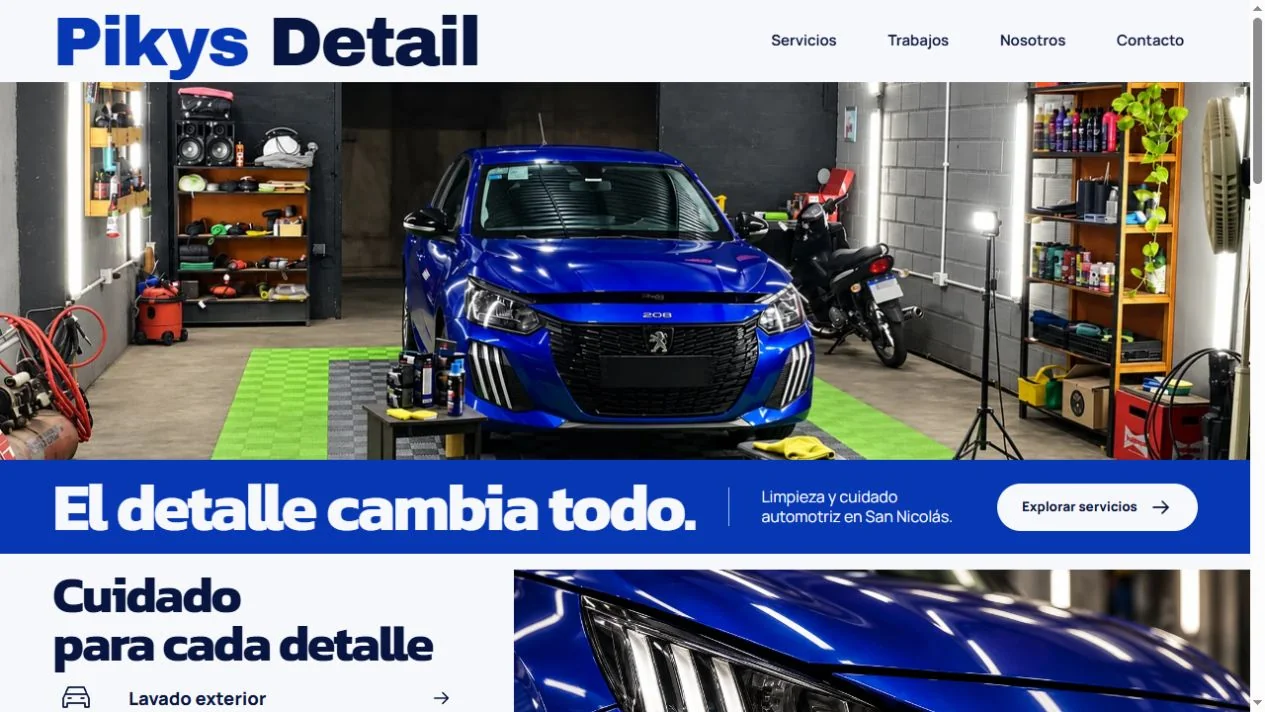
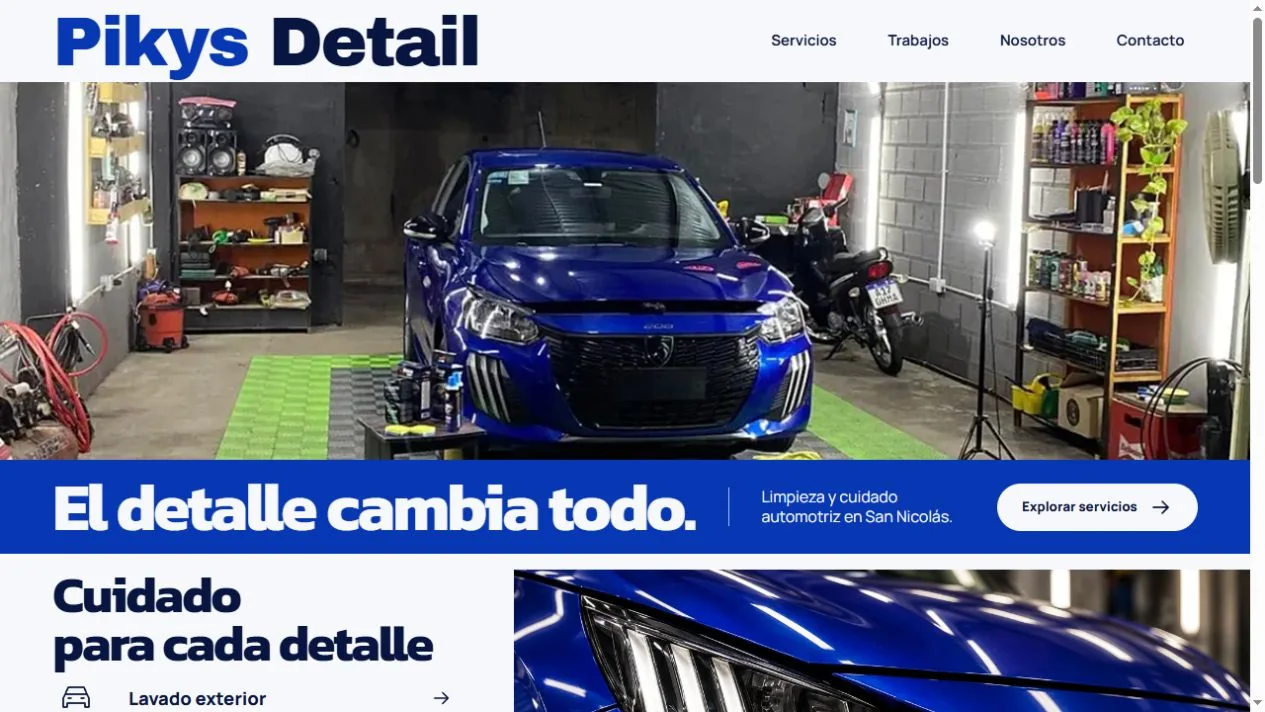
fix: restore original workshop photo in landing hero

Changed region(s): [[0.0, 0.0927, 1.0, 0.6489]]

diff --git a/index.html b/index.html
@@ -12,9 +12,9 @@
     <meta property="og:site_name" content="Pikys Detail">
     <meta property="og:title" content="Pikys Detail — El detalle cambia todo">
     <meta property="og:description" content="Diseño frontend de portfolio para un emprendimiento familiar de cuidado automotriz en San Nicolás. Contacto de demostración.">
-    <meta property="og:image:alt" content="Vista ilustrativa del automóvil azul en el taller de Pikys Detail">
+    <meta property="og:image:alt" content="Fotografía original del automóvil azul en el taller de Pikys Detail">
     <meta property="og:image:width" content="1200">
-    <meta property="og:image:height" content="630">
+    <meta property="og:image:height" content="500">
     <meta name="twitter:card" content="summary_large_image">
     <meta name="twitter:title" content="Pikys Detail — El detalle cambia todo">
     <meta name="twitter:description" content="Landing de portfolio de cuidado automotriz. Contacto de demostración.">
@@ -35,8 +35,8 @@
     <main id="contenido">
       <section class="hero" id="inicio" aria-labelledby="hero-title">
         <picture>
-          <source media="(max-width: 600px)" srcset="src/assets/images/workshop-blue-mobile-480.webp 480w, src/assets/images/workshop-blue-mobile-800.webp 800w, src/assets/images/workshop-blue-mobile-1131.webp 1131w" sizes="100vw">
-          <img class="hero-photo" src="src/assets/images/workshop-blue-2172.webp" srcset="src/assets/images/workshop-blue-768.webp 768w, src/assets/images/workshop-blue-1280.webp 1280w, src/assets/images/workshop-blue-2172.webp 2172w" sizes="(max-width: 600px) 192vw, (max-width: 960px) 117vw, 100vw" width="2172" height="724" fetchpriority="high" alt="Vista ilustrativa de un auto azul en el taller de Pikys Detail">
+          <source media="(max-width: 600px)" srcset="src/assets/images/hero-original-mobile-480.webp 480w, src/assets/images/hero-original-mobile-781.webp 781w" sizes="100vw">
+          <img class="hero-photo" src="src/assets/images/auto1.webp" srcset="src/assets/images/auto1-640.webp 640w, src/assets/images/auto1.webp 1200w" sizes="100vw" width="1200" height="500" fetchpriority="high" alt="Fotografía original del auto azul en el taller de Pikys Detail">
         </picture>
         <div class="offer-band">
           <h1 id="hero-title">El detalle cambia todo.</h1>
@@ -54,7 +54,7 @@
           </div>
           <p class="demo-note">Proyecto de portfolio · contacto de demostración.</p>
         </div>
-        <figure class="service-visual"><img class="service-photo" src="src/assets/images/detail-blue-1280.webp" srcset="src/assets/images/detail-blue-640.webp 640w, src/assets/images/detail-blue-1280.webp 1280w, src/assets/images/detail-blue-2048.webp 2048w" sizes="(max-width: 600px) 147vw, (max-width: 960px) 91vw, 59vw" loading="lazy" decoding="async" width="2048" height="768" alt="Detalle ilustrativo del faro y la pintura azul de un automóvil"><figcaption>Imágenes de apertura ilustrativas. La galería muestra fotografías originales.</figcaption></figure>
+        <figure class="service-visual"><img class="service-photo" src="src/assets/images/detail-blue-1280.webp" srcset="src/assets/images/detail-blue-640.webp 640w, src/assets/images/detail-blue-1280.webp 1280w, src/assets/images/detail-blue-2048.webp 2048w" sizes="(max-width: 600px) 147vw, (max-width: 960px) 91vw, 59vw" loading="lazy" decoding="async" width="2048" height="768" alt="Detalle ilustrativo del faro y la pintura azul de un automóvil"><figcaption>El detalle del faro es ilustrativo. Portada y galería: fotografías originales.</figcaption></figure>
       </section>
       <section class="work-section section-space" id="trabajos" aria-labelledby="work-title">
         <div class="section-intro">

diff --git a/docs/visual-assets.md b/docs/visual-assets.md
@@ -10,13 +10,11 @@ Conversión realizada con fontTools 4.67.0 y Brotli 1.2.0. No hay llamadas a ser
 
 ## Imágenes
 
-`workshop-blue.png` y `detail-blue.png` son los masters ilustrativos aprobados. Se conservan como material de origen; la página carga exclusivamente sus derivados WebP responsive. Los mayores derivados suman 422.776 B frente a los 4.837.321 B de los PNG.
+El 20/10/2026 se sustituyó la reconstrucción generada de la portada por `auto1.webp`, la fotografía original del taller suministrada con el proyecto. En escritorio se carga esa fotografía de 1200×500, con su variante existente de 640 px. La apertura móvil utiliza recortes de 480 y 781 px del mismo original, sin generación de contenido ni retoques; se conserva el encuadre de 64vw y la posición del 53 %.
 
-La apertura móvil usa una variante recortada del mismo master para evitar descargar partes que quedan fuera del encuadre. El recorte conserva la composición de 64vw y el `object-position` del 53 %; no genera una escena nueva. La galería utiliza versiones de 640 px junto con los originales de 1200 px. Vite emite las variantes referenciadas; el navegador descarga las que necesita mediante `picture`, `srcset` y `sizes`.
+Los archivos de la portada generada y sus variantes se retiraron. `detail-blue.png` y sus derivados siguen siendo el detalle ilustrativo del faro, identificado como tal. `lavado1.webp` y `nosotros.webp` conservan el material original de las demás secciones.
 
-`auto1.webp`, `lavado1.webp` y `nosotros.webp` son fotografías originales suministradas con el proyecto. La apertura declara sus imágenes ilustrativas y la galería identifica el material original. No se presentan como un antes/después de clientes ni como testimonios.
-
-Los derivados se codificaron con sharp 0.35.5: WebP de apertura al 84 %, móvil/galería al 82 %; la vista social es un recorte de 1200×630 del taller, JPEG al 85 %. Los masters y los recursos heredados que no están referenciados no se transfieren en la landing.
+La imagen social también utiliza la fotografía original completa de 1200×500. Los derivados se codifican con sharp 0.35.5, WebP al 84 % y JPEG social al 85 %. La galería mantiene sus variantes responsive y los originales suministrados.
 
 ## Capturas
 

diff --git a/docs/portfolio-case-study.md b/docs/portfolio-case-study.md
@@ -33,7 +33,7 @@ Después:
 - Una fotografía panorámica y una franja cobalto sustituyen el hero dividido oscuro. Archivo Black, Kanit y Manrope aportan una voz tipográfica local y consistente.
 - Una sola página reúne servicios, trabajos, historia y contacto. Los servicios utilizan `details` nativos, y el menú móvil añade únicamente el JavaScript necesario.
 - El contacto informa de su alcance antes de los campos, que están deshabilitados. Se retiraron el código de envío heredado, los enlaces de ejemplo y las dependencias de CDN.
-- Se distingue el material ilustrativo de apertura de las fotografías originales del negocio. No se añaden reseñas, cifras comerciales ni resultados ficticios.
+- La portada muestra la fotografía original del taller; el detalle ilustrativo del faro se distingue del material original del negocio. No se añaden reseñas, cifras comerciales ni resultados ficticios.
 - HTML conserva el contenido; Vite procesa los recursos. pnpm, dependencias exactas y un único lockfile mantienen una instalación reproducible.
 
 ## Rendimiento medido
@@ -57,3 +57,5 @@ Son mediciones locales de laboratorio con Lighthouse 13.5.0. Las puntuaciones pu
 ## Entrega
 
 Código estático preparado para Vercel, configuración de metadatos por dominio, pruebas de build y capturas de página completa: [escritorio](portfolio/landing-desktop.webp) y [móvil](portfolio/landing-mobile.webp). El despliegue lo realiza el propietario.
+
+Actualización del 20/10/2026: portada e imagen social sustituidas por la fotografía original del taller. Las métricas de Lighthouse anteriores corresponden a la versión medida el 19/10/2026; no se volvieron a medir por este cambio de imagen. Las capturas de presentación se actualizan a la portada original.

diff --git a/README.md b/README.md
@@ -45,9 +45,9 @@ HTML semántico, CSS y JavaScript nativo sobre Vite, sin framework de interfaz n
 
 ## Diseño y estado
 
-La cabecera, la fotografía panorámica y la franja cobalto reproducen la dirección elegida. Las imágenes de apertura son ilustrativas y están identificadas; la galería y la sección sobre el emprendimiento conservan fotografías originales. Las fuentes y sus licencias se alojan en el proyecto.
+La cabecera, la fotografía panorámica y la franja cobalto reproducen la dirección elegida. La portada, la galería y la sección sobre el emprendimiento utilizan fotografías originales. El detalle ilustrativo del faro está identificado. Las fuentes y sus licencias se alojan en el proyecto.
 
-Implementación y optimización terminadas para el alcance de portfolio. Lighthouse local: rendimiento 96 en móvil y 100 en escritorio; accesibilidad automática, buenas prácticas y SEO 100. Las métricas y sus límites están documentados.
+Implementación y optimización terminadas para el alcance de portfolio. Medición de Lighthouse del 19/10/2026: rendimiento 96 en móvil y 100 en escritorio; accesibilidad automática, buenas prácticas y SEO 100 (anterior a la sustitución de la portada por la foto original). Las métricas y sus límites están documentados.
 
 El proyecto está preparado para Vercel; el despliegue lo realiza el propietario. `vercel.json` fija la instalación y el build mediante Corepack para respetar pnpm 11.24.0. Configurar `ENABLE_EXPERIMENTAL_COREPACK=1` en Vercel. El dominio de producción se toma de `SITE_URL` o de `VERCEL_PROJECT_PRODUCTION_URL`, sin URL ficticia en el build local.
 

diff --git a/docs/roadmap.md b/docs/roadmap.md
@@ -16,7 +16,7 @@ La aceptación visual y la revisión independiente están documentadas localment
 
 WebP responsive, recorte móvil equivalente, variantes de galería, WOFF2 completo y precarga de fuentes. Revisión de teclado, foco, reflow y estados; Lighthouse móvil/escritorio, Chrome/Edge y auditoría de dependencias.
 
-Resultados finales: rendimiento móvil 96 y escritorio 100; accesibilidad automática, buenas prácticas y SEO 100 en los entornos medidos. La transferencia móvil medida baja aproximadamente un 92,5 %. Ver `validation.md` para metodología y límites: no se declara certificación integral ni pruebas físicas o motores no ejecutados.
+Resultados medidos el 19/10/2026, anteriores al cambio de fotografía: rendimiento móvil 96 y escritorio 100; accesibilidad automática, buenas prácticas y SEO 100 en los entornos medidos. La transferencia móvil medida baja aproximadamente un 92,5 %. Ver `validation.md` para metodología y límites: no se declara certificación integral ni pruebas físicas o motores no ejecutados.
 
 ## Fase 4 — Portfolio y preparación de publicación: completada
 
@@ -31,3 +31,5 @@ El propietario realizará el despliegue. Los pasos y las verificaciones sobre el
 - `portfolio-case-study.md`: caso de portfolio y capturas.
 - `visual-assets.md`: fuentes, masters y derivados.
 - `deployment.md`: preparación para Vercel.
+
+Actualización del 20/10/2026: portada e imagen social con la fotografía original del taller, a petición del propietario; recursos generados de portada retirados. Check, build, cuatro tests y revisión visual de escritorio/móvil correctos.

diff --git a/docs/deployment.md b/docs/deployment.md
@@ -14,7 +14,7 @@ El build toma el dominio público de `SITE_URL`, si se define, o de la variable 
 
 Con un dominio disponible se generan canonical, `og:url`, URLs absolutas de la imagen social y `sitemap.xml`. `robots.txt` incluye ese sitemap. Sin dominio, el build local funciona y genera robots sin inventar una URL pública; la imagen social usa su ruta local.
 
-La portada incluye descripción, Open Graph, Twitter Card, favicon y una imagen social de 1200×630. El sitemap contiene únicamente la landing; `contacto.html` conserva `noindex` y redirige a `index.html#contacto` mediante HTML, con enlace alternativo.
+La portada incluye descripción, Open Graph, Twitter Card, favicon y una imagen social de 1200×500. El sitemap contiene únicamente la landing; `contacto.html` conserva `noindex` y redirige a `index.html#contacto` mediante HTML, con enlace alternativo.
 
 ## Comportamiento del hosting
 

diff --git a/docs/validation.md b/docs/validation.md
@@ -44,3 +44,5 @@ El navegador integrado no respondió al atajo de zoom nativo; se comprobó reflo
 La revisión independiente del refinamiento visual queda separada del registro histórico del comparador, cuyo estado automático de fase 2 conserva una inconsistencia documentada localmente. No se alteraron recibos ni se declararon fases de esa herramienta cerradas.
 
 El despliegue, las cabeceras efectivas del hosting y la validación final sobre el dominio público corresponden al propietario, según [deployment.md](deployment.md).
+
+Actualización del 20/10/2026: portada e imagen social sustituidas por la fotografía original del taller. Las métricas de Lighthouse anteriores corresponden a la versión medida el 19/10/2026; no se volvieron a medir por este cambio de imagen. Las capturas de presentación se actualizan a la portada original.
